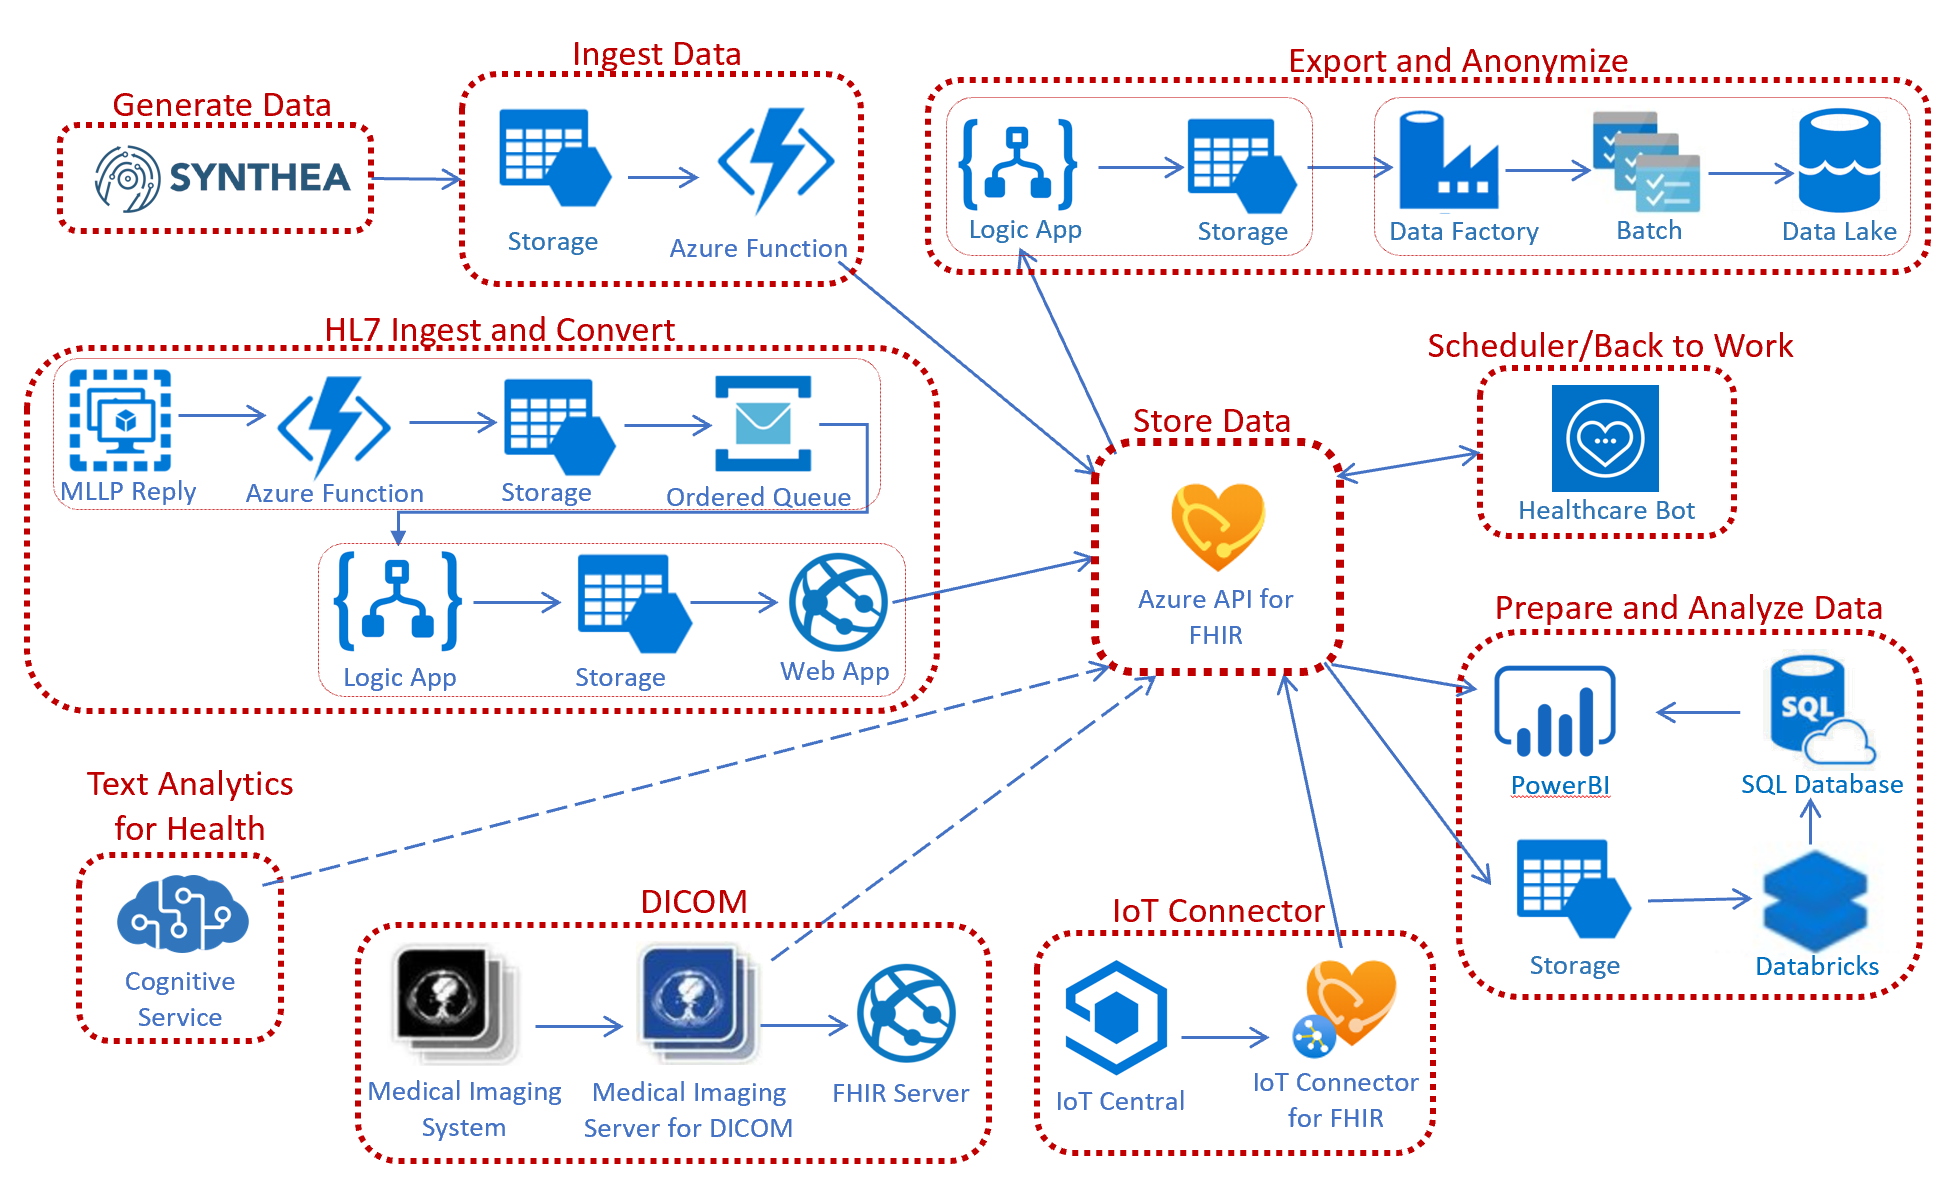
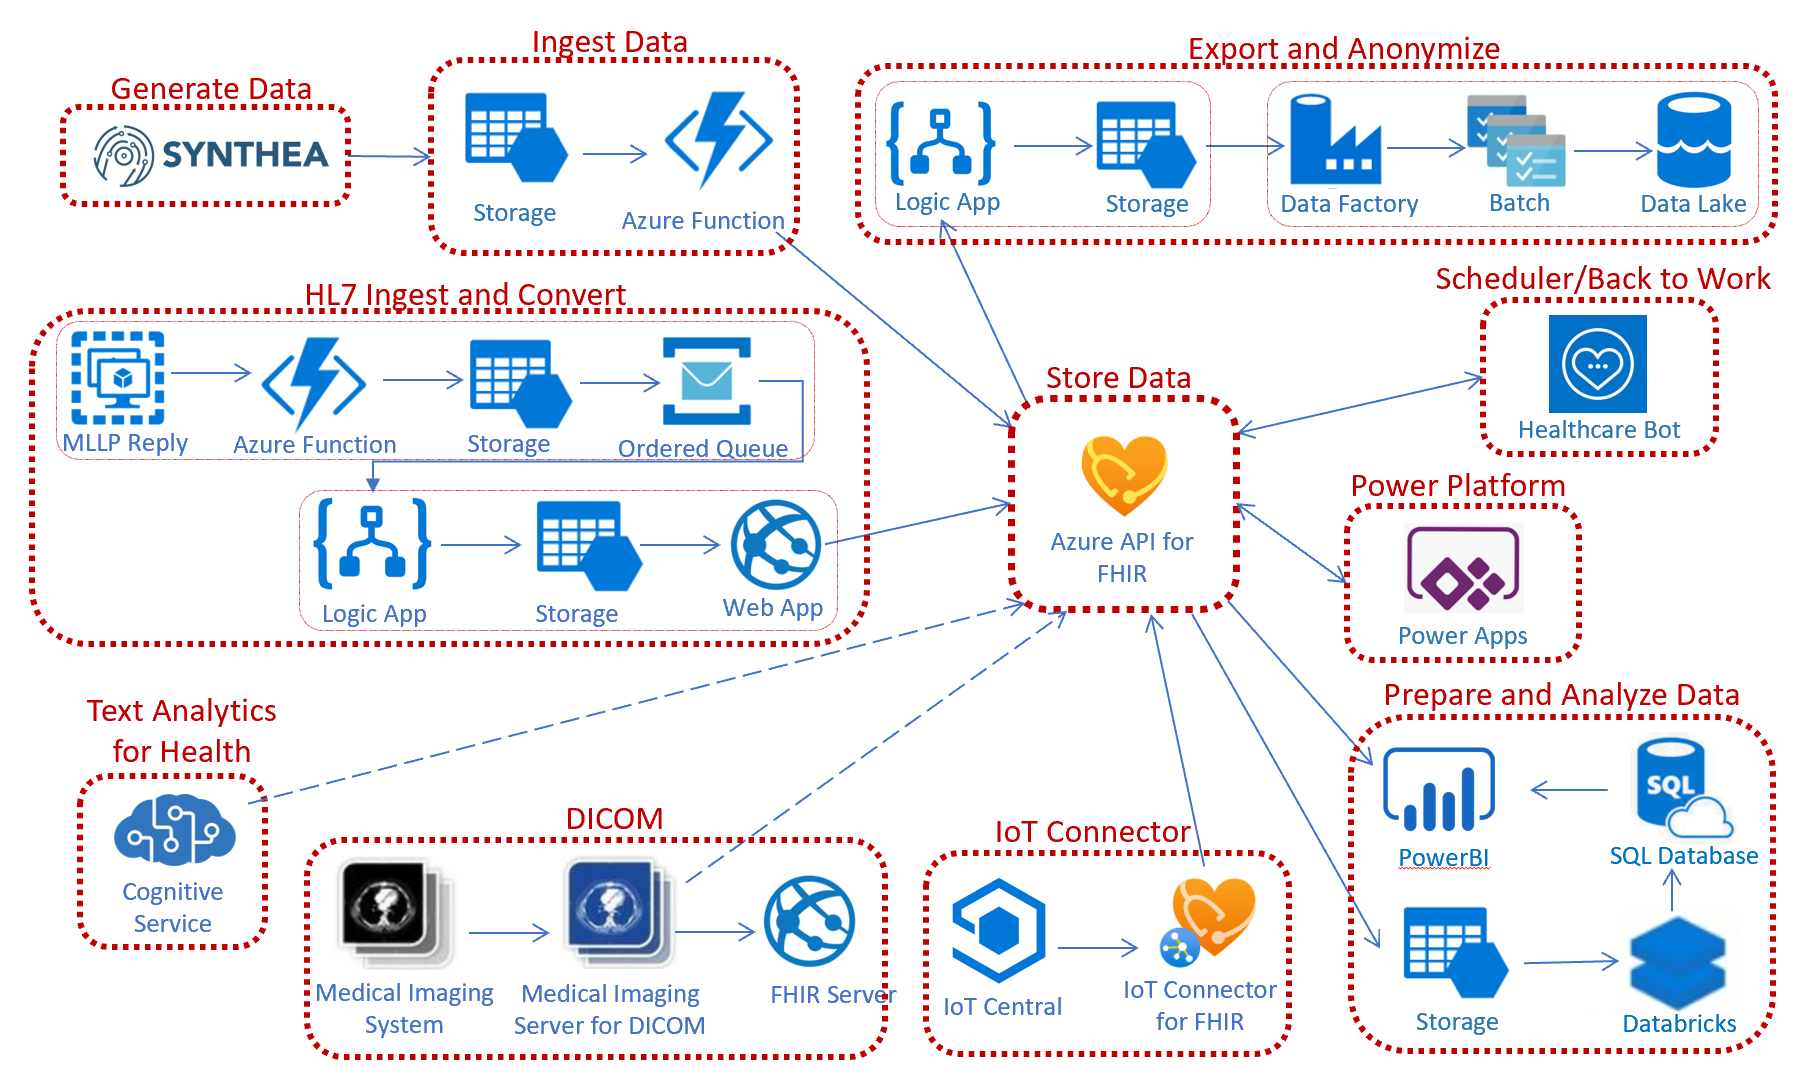
Added PowerPlatform connectors to Azure API for FHIR

diff --git a/Chapter11-PowerPlatform/ReadMe.md b/Chapter11-PowerPlatform/ReadMe.md
@@ -1,0 +1,23 @@
+# Chapter11 - Power Platform
+
+#### This chapter focuses on Power Platform connectors for Azure API for FHIR [FHIRBase](https://docs.microsoft.com/en-us/connectors/fhirbase/) and [FHIRClinical](https://docs.microsoft.com/en-us/connectors/fhirclinical/). 
+
+A connector is a proxy or a wrapper around an API that allows the underlying service to talk to Microsoft Power Platform. Connectors provide a way for users to leverage a set of pre-built actions and triggers to build applications and workflows.
+
+The two Connectors that works with Azure API for FHIR contain a subset of FHIR Resources and are bi-directional supporting both reads and writes to the FHIR Service. 
+
+**[FHIRBase](https://docs.microsoft.com/en-us/connectors/fhirbase/)** and **[FHIRClinical](
+https://docs.microsoft.com/en-us/connectors/fhirclinical/)** are certified custom connectors that allows for building secure healthcare applications to enable interoperability using FHIR.
+
+
+## Use Power Platform Connectors Preview
+
+The below steps are detailed in [FHIRPower](https://github.com/microsoft/FHIRPower).
+
+   * Deploy Azure API for FHIR with First Party Auth. Add users to `FHIR Data Reader` or `FHIR Data Contributor` role using Access Control (IAM). Load sample data into Azure API for FHIR.
+   * Deploy FHIRBase and FHIRClinical connectors to Power Platform environment.
+   * Import samples and test.
+
+*** 
+
+[Home](https://github.com/cyberuna/AI-Starter-Kit-OnFHIR)
